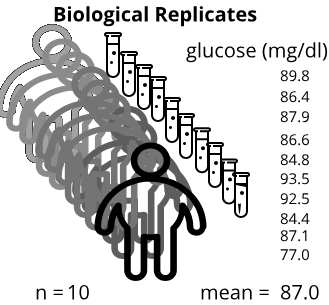
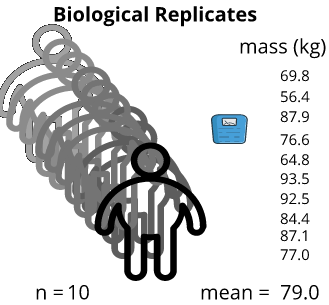
changed replicate graphics to mass

diff --git a/_episodes/05-randomized-designs.md b/_episodes/05-randomized-designs.md
@@ -61,32 +61,32 @@ df1
 
 ~~~
    sample_id random_number     group
-1          A            10   control
-2          B            35 treatment
-3          C            39 treatment
-4          D            23 treatment
-5          E            92   control
-6          F            40   control
-7          G            58   control
-8          H            51 treatment
-9          I            82   control
-10         J            17 treatment
-11         K            61 treatment
-12         L            28   control
-13         M            96   control
-14         N             2   control
-15         O            71 treatment
-16         P            11 treatment
-17         Q            42   control
-18         R            13 treatment
-19         S            20   control
-20         T             1 treatment
-21         U            84   control
-22         V            29 treatment
-23         W            31 treatment
-24         X            41 treatment
-25         Y            56   control
-26         Z             6   control
+1          A            46   control
+2          B            94   control
+3          C            83 treatment
+4          D            90   control
+5          E             3 treatment
+6          F            82   control
+7          G            25 treatment
+8          H            47 treatment
+9          I            95 treatment
+10         J            40   control
+11         K            56   control
+12         L            92   control
+13         M            43 treatment
+14         N            34   control
+15         O            96   control
+16         P            42   control
+17         Q            30   control
+18         R             5 treatment
+19         S             6   control
+20         T            59 treatment
+21         U            72   control
+22         V             4   control
+23         W            91 treatment
+24         X            19 treatment
+25         Y            52   control
+26         Z            31 treatment
 ~~~
 {: .output}
 
@@ -103,7 +103,7 @@ table(df1$group)
 ~~~
 
   control treatment 
-       13        13 
+       15        11 
 ~~~
 {: .output}
 
@@ -129,32 +129,32 @@ df1_equal
 
 ~~~
    sample_id random_number treatment
-1          T             1   control
-2          N             2   control
-3          Z             6   control
-4          A            10   control
-5          P            11   control
-6          R            13   control
-7          J            17   control
-8          S            20   control
-9          D            23   control
-10         L            28   control
-11         V            29   control
-12         W            31   control
-13         B            35   control
-14         C            39 treatment
-15         F            40 treatment
-16         X            41 treatment
-17         Q            42 treatment
-18         H            51 treatment
-19         Y            56 treatment
-20         G            58 treatment
-21         K            61 treatment
-22         O            71 treatment
-23         I            82 treatment
-24         U            84 treatment
-25         E            92 treatment
-26         M            96 treatment
+1          E             3   control
+2          V             4   control
+3          R             5   control
+4          S             6   control
+5          X            19   control
+6          G            25   control
+7          Q            30   control
+8          Z            31   control
+9          N            34   control
+10         J            40   control
+11         P            42   control
+12         M            43   control
+13         A            46   control
+14         H            47 treatment
+15         Y            52 treatment
+16         K            56 treatment
+17         T            59 treatment
+18         U            72 treatment
+19         F            82 treatment
+20         C            83 treatment
+21         D            90 treatment
+22         W            91 treatment
+23         L            92 treatment
+24         B            94 treatment
+25         I            95 treatment
+26         O            96 treatment
 ~~~
 {: .output}
 
@@ -237,26 +237,26 @@ df2
 
 ~~~
    exp_unit_id random_number  treatment
-8            H             6    control
-18           R             7    control
-3            C            13    control
-7            G            16    control
-12           L            21    control
-20           T            28 treatment1
-17           Q            33 treatment1
-13           M            34 treatment1
-1            A            35 treatment1
-9            I            40 treatment1
-2            B            42 treatment2
-5            E            54 treatment2
-16           P            58 treatment2
-4            D            64 treatment2
-14           N            66 treatment2
-6            F            75 treatment3
-11           K            77 treatment3
-15           O            78 treatment3
-10           J            96 treatment3
-19           S            97 treatment3
+3            C             9    control
+19           S            16    control
+1            A            19    control
+5            E            20    control
+15           O            24    control
+18           R            30 treatment1
+7            G            31 treatment1
+10           J            32 treatment1
+14           N            43 treatment1
+13           M            55 treatment1
+4            D            56 treatment2
+8            H            57 treatment2
+11           K            59 treatment2
+16           P            64 treatment2
+9            I            68 treatment2
+6            F            77 treatment3
+20           T            79 treatment3
+12           L            81 treatment3
+2            B            82 treatment3
+17           Q            94 treatment3
 ~~~
 {: .output}
 
